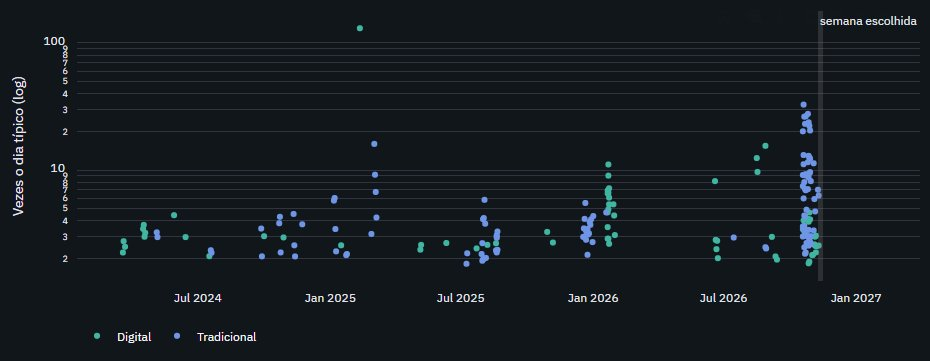
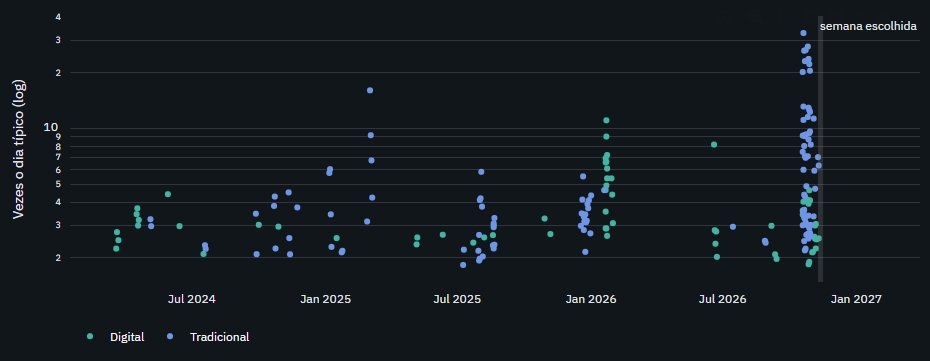
Corrige pico falso e limpa achados da auditoria
- picos(): dia típico com menos de 5 acessos não julga pico. O PagBank
  aparecia com 130 vezes o dia típico sobre uma base de 0,4 acesso.
- O resumo da aba Picos escolhe o maior salto por "vezes", como o texto diz.
- welch() devolve os pontos por banco; o boxplot usa os mesmos dados do teste.
- A janela de 26 semanas vem de JANELA_FAIXA no app inteiro.
- Teste troca dt.dayofweek (em remoção no pandas) por dt.day_of_week.

diff --git a/app.py b/app.py
@@ -1,7 +1,6 @@
 """Painel: radar de atenção a bancos na Wikipédia (pageviews da Wikimedia)."""
 import sqlite3
 
-import numpy as np
 import pandas as pd
 import plotly.express as px
 import plotly.graph_objects as go
@@ -98,7 +97,7 @@ with aba1:
                 "Escolha uma semana mais recente.")
     else:
         total = sem.loc[sem["semana"] == semana, "views"].sum()
-        hist_total = sem[sem["semana"] < semana].groupby("semana")["views"].sum().tail(26)
+        hist_total = sem[sem["semana"] < semana].groupby("semana")["views"].sum().tail(an.JANELA_FAIXA)
         bt = an.faixa_normal(hist_total, total)
         acima = radar[radar["status"] == "acima do normal"].sort_values("vs_mediana_pct", ascending=False)
         abaixo = radar[radar["status"] == "abaixo do normal"].sort_values("vs_mediana_pct")
@@ -106,7 +105,7 @@ with aba1:
                   f"**{br(total)} acessos** nos grupos escolhidos"]
         if bt:
             frases[0] += (f", {br(abs(bt['vs_mediana_pct']))}% {'acima' if bt['vs_mediana_pct'] >= 0 else 'abaixo'} "
-                          f"da mediana das 26 semanas anteriores ({bt['status']}).")
+                          f"da mediana das {an.JANELA_FAIXA} semanas anteriores ({bt['status']}).")
         else:
             frases[0] += "."
         frases.append(f"Acima do normal: {lista(acima['banco'])}." if len(acima)
@@ -123,10 +122,10 @@ with aba1:
             column_config={
                 "banco": "Banco", "grupo": "Grupo", "status": "Leitura",
                 "valor": st.column_config.NumberColumn("Acessos na semana", format=NUM),
-                "mediana": st.column_config.NumberColumn("Mediana 26 sem.", format=NUM),
+                "mediana": st.column_config.NumberColumn(f"Mediana {an.JANELA_FAIXA} sem.", format=NUM),
                 "vs_mediana_pct": st.column_config.NumberColumn("vs mediana", format="%+.0f%%"),
             })
-        st.caption("O normal de cada banco é a faixa das 26 semanas anteriores (mediana e intervalo "
+        st.caption(f"O normal de cada banco é a faixa das {an.JANELA_FAIXA} semanas anteriores (mediana e intervalo "
                    "interquartil). Fica acima do normal quem passa de Q3 + 1,5 × IQR, o critério do boxplot.")
 
         banco = st.selectbox("Série semanal de um banco", tab["banco"])
@@ -152,7 +151,7 @@ with aba2:
     if pk.empty:
         st.info("Nenhum dia atípico nos grupos escolhidos.")
     else:
-        maior = pk.iloc[0]
+        maior = pk.nlargest(1, "vezes_base").iloc[0]  # o texto fala em "vezes", então o maior é por vezes
         na_semana = pk[(pk["data"] >= pd.to_datetime(semana)) & (pk["data"] <= fim_semana)]
         resumo = (f"Maior salto do período: **{maior['banco']}** em {maior['data']:%d/%m/%Y}, "
                   f"com {br(maior['vezes_base'], 1)} vezes os acessos de um dia típico. ")
@@ -227,11 +226,7 @@ with aba3:
                 f"p-valor **{br(r['p'], 3)}** (abaixo de 0,05, a diferença dificilmente é acaso) · "
                 f"t de Welch **{br(r['t'], 2)}** · tamanho do efeito, d de Cohen, **{br(r['d'], 2)}** "
                 "(a partir de 0,8 em módulo, a diferença é considerada grande)")
-        ult = sorted(semanal["semana"].unique())[-janela:]
-        pts = (semanal[semanal["semana"].isin(ult)]
-               .assign(log=lambda d: np.log10(d["views"].clip(lower=1)))
-               .groupby(["grupo", "banco"])["log"].mean().reset_index()
-               .assign(views=lambda d: 10 ** d["log"]))
+        pts = r["pontos"].assign(views=lambda d: 10 ** d["log_views"])
         fig = px.box(pts, x="grupo", y="views", color="grupo", points="all", hover_name="banco",
                      log_y=True, color_discrete_map=CORES, category_orders={"grupo": [ga, gb]},
                      labels={"grupo": "", "views": "Acessos semanais (média geométrica, log)"},

diff --git a/analise.py b/analise.py
@@ -20,6 +20,7 @@ MIN_SEMANAS_FAIXA = 8   # semanas de histórico para definir o "normal"
 MIN_DIAS_PICO = 60      # dias de histórico para julgar um pico
 MIN_BANCOS = 4          # bancos por grupo para comparar grupos
 JANELA_FAIXA = 26       # semanas de histórico que definem o normal
+MIN_BASE_PICO = 5       # dia típico com menos acessos que isso não julga pico (verbete quase sem leitura)
 LIMITE_IQR = 1.5        # fora de Q1-1,5·IQR e Q3+1,5·IQR é fora do normal (critério do boxplot)
 
 # Semana de segunda a domingo. 'weekday 0' leva ao domingo; -6 dias volta à segunda.
@@ -102,7 +103,7 @@ def picos(diario, z_corte=3.5, janela=90):
             lambda x: np.median(np.abs(x - np.median(x))), raw=True).shift(1)
         z = (lv - med) / (1.4826 * mad.replace(0, np.nan))
         g = g.assign(z=z, base=np.expm1(med))
-        saida.append(g[g["z"] >= z_corte])
+        saida.append(g[(g["z"] >= z_corte) & (g["base"] >= MIN_BASE_PICO)])
     if not saida:
         return pd.DataFrame(columns=["banco", "grupo", "data", "views", "z", "base"])
     out = pd.concat(saida)
@@ -132,4 +133,5 @@ def welch(semanal, grupo_a, grupo_b, semanas=12):
             "media_a": 10 ** a.mean(), "media_b": 10 ** b.mean(),  # médias geométricas
             "razao": 10 ** (a.mean() - b.mean()), "t": float(t), "p": float(p),
             "d": float((a.mean() - b.mean()) / dp) if dp else None,
-            "semanas": len(ultimas), "significante": bool(p < 0.05)}
+            "semanas": len(ultimas), "significante": bool(p < 0.05),
+            "pontos": por_banco.reset_index()}  # um ponto por banco, a unidade do teste

diff --git a/tests/test_analise.py b/tests/test_analise.py
@@ -35,7 +35,7 @@ def test_welch_detecta_diferenca_e_respeita_minimo():
 def test_sql_semanal_roda_no_banco():
     sem = analise.consultar(analise.SQL_SEMANAL)
     assert {"banco", "grupo", "semana", "views"} <= set(sem.columns)
-    assert pd.to_datetime(sem["semana"]).dt.dayofweek.eq(0).all()  # toda semana começa na segunda
+    assert pd.to_datetime(sem["semana"]).dt.day_of_week.eq(0).all()  # toda semana começa na segunda
 
 
 def test_picos_conta_dia_sem_registro_como_zero():
@@ -51,3 +51,11 @@ def test_faixa_rolante_bate_com_faixa_normal():
     band = analise.faixa_rolante(views)
     unica = analise.faixa_normal(views.iloc[:-1], views.iloc[-1])
     assert round(band["lim_sup"].iloc[-1], 6) == round(unica["lim_sup"], 6)
+
+
+def test_picos_ignora_verbete_quase_sem_leitura():
+    views = np.random.default_rng(0).integers(0, 3, 120)  # 0 a 2 acessos por dia
+    views[100] = 50  # salto enorme em vezes, mas sobre quase nada: ruído, não evento
+    d = pd.DataFrame({"banco": "X", "grupo": "G", "views": views,
+                      "data": pd.date_range("2025-01-01", periods=120).strftime("%Y-%m-%d")})
+    assert analise.picos(d).empty

diff --git a/README.md b/README.md
@@ -31,7 +31,7 @@ O projeto responde três perguntas com critério estatístico explícito:
 | Banco de dados | [`schema.sql`](schema.sql) | Duas tabelas: `bancos` e `pageviews` (chave artigo + data). |
 | Consulta | [`analise.py`](analise.py) | A agregação semanal sai de SQL (semana de segunda a domingo). O app tem uma aba para rodar consultas próprias, com o banco aberto só para leitura. |
 | Faixa de normalidade | `faixa_normal()` | Mediana e intervalo interquartil (IQR) das 26 semanas anteriores. Acima de Q3 + 1,5 × IQR é "acima do normal", o critério do boxplot. Com menos de 8 semanas de histórico, não julga. |
-| Picos | `picos()` | z-score robusto em escala log: mediana e MAD dos 90 dias anteriores, corte em 3,5. Mediana e MAD não se deixam distorcer por um único dia de pico, como aconteceria com média e desvio padrão. |
+| Picos | `picos()` | z-score robusto em escala log: mediana e MAD dos 90 dias anteriores, corte em 3,5. Mediana e MAD não se deixam distorcer por um único dia de pico, como aconteceria com média e desvio padrão. Dia típico com menos de 5 acessos não julga pico: sobre quase nada, qualquer visita vira um salto de dezenas de vezes. |
 | Digitais x tradicionais | `welch()` | Teste t de Welch sobre a média do log dos acessos semanais **por banco**. Cada banco é uma observação, para não contar 12 semanas do mesmo banco como 12 casos independentes. Welch porque não supõe variâncias iguais. Mostra p-valor, tamanho do efeito (d de Cohen) e n. |
 | Atualização | [`coleta.yml`](.github/workflows/coleta.yml) | Toda segunda às 6h (Brasília), o GitHub Actions coleta a semana que fechou no domingo, roda os testes e só então grava o banco. O Streamlit Cloud republica o app a cada gravação. |
 | Testes | [`tests/`](tests) | `pytest` com dados sintéticos: a faixa classifica certo, o pico plantado é achado, o teste respeita a amostra mínima, toda semana do SQL começa na segunda, e o app abre sem erro com um grupo ou com os dois. |
